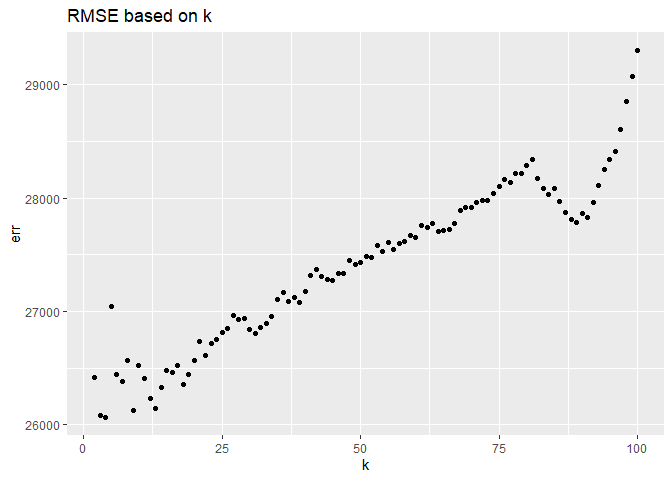
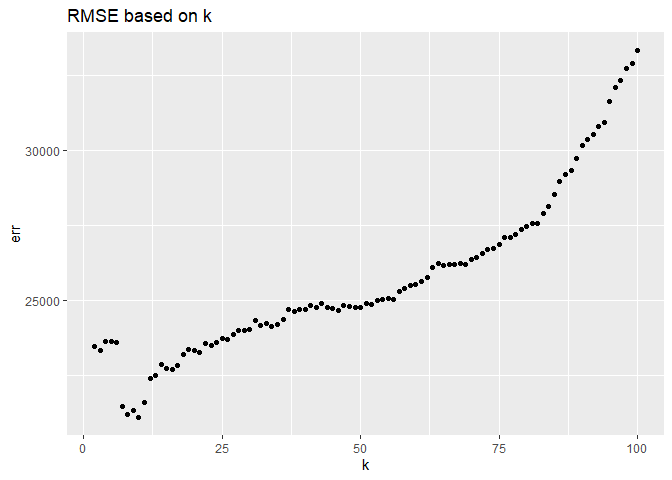
Upload Austin

diff --git a/Homework_Final.md b/Homework_Final.md
@@ -160,13 +160,13 @@
 
 ![](Homework_Final_files/figure-markdown_strict/unnamed-chunk-13-1.png)
 
-    ##          k      err
-    ## result.1 2 11548.63
-    ## result.2 3 11862.76
-    ## result.3 4 11854.66
-    ## result.4 5 10824.22
-    ## result.5 6 10715.23
-    ## result.6 7 10796.08
+    ##          k       err
+    ## result.1 2 12148.045
+    ## result.2 3 10601.499
+    ## result.3 4 10857.981
+    ## result.4 5  9867.650
+    ## result.5 6  9852.413
+    ## result.6 7  9874.655
 
 ![](Homework_Final_files/figure-markdown_strict/unnamed-chunk-13-2.png)
 
@@ -174,19 +174,19 @@
     ##  Range:  
     ##  Limits:    0 --    1
 
-    ## [1] 14
+    ## [1] 9
 
 ![](Homework_Final_files/figure-markdown_strict/unnamed-chunk-13-3.png)![](Homework_Final_files/figure-markdown_strict/unnamed-chunk-13-4.png)
 
 ![](Homework_Final_files/figure-markdown_strict/unnamed-chunk-14-1.png)
 
     ##          k      err
-    ## result.1 2 26419.57
-    ## result.2 3 26078.86
-    ## result.3 4 26068.23
-    ## result.4 5 27048.34
-    ## result.5 6 26441.98
-    ## result.6 7 26386.83
+    ## result.1 2 23459.26
+    ## result.2 3 23345.20
+    ## result.3 4 23651.13
+    ## result.4 5 23620.69
+    ## result.5 6 23593.90
+    ## result.6 7 21474.33
 
 ![](Homework_Final_files/figure-markdown_strict/unnamed-chunk-14-2.png)
 
@@ -194,12 +194,12 @@
     ##  Range:  
     ##  Limits:    0 --    1
 
-    ## [1] 4
+    ## [1] 10
 
 ![](Homework_Final_files/figure-markdown_strict/unnamed-chunk-14-3.png)![](Homework_Final_files/figure-markdown_strict/unnamed-chunk-14-4.png)
 
--   trim = 350 yields a larger optimal k of 12 over 7 in case of trim =
-    65 AMG
+-   trim = 350 yields a larger optimal k than that in case of trim = 65
+    AMG
 -   The sample size for trim = 350 is higher than that for trim = 65. If
     we have larger sample size, we can afford higher k without the bias
     being too high. This is because you’re averaging the points around
